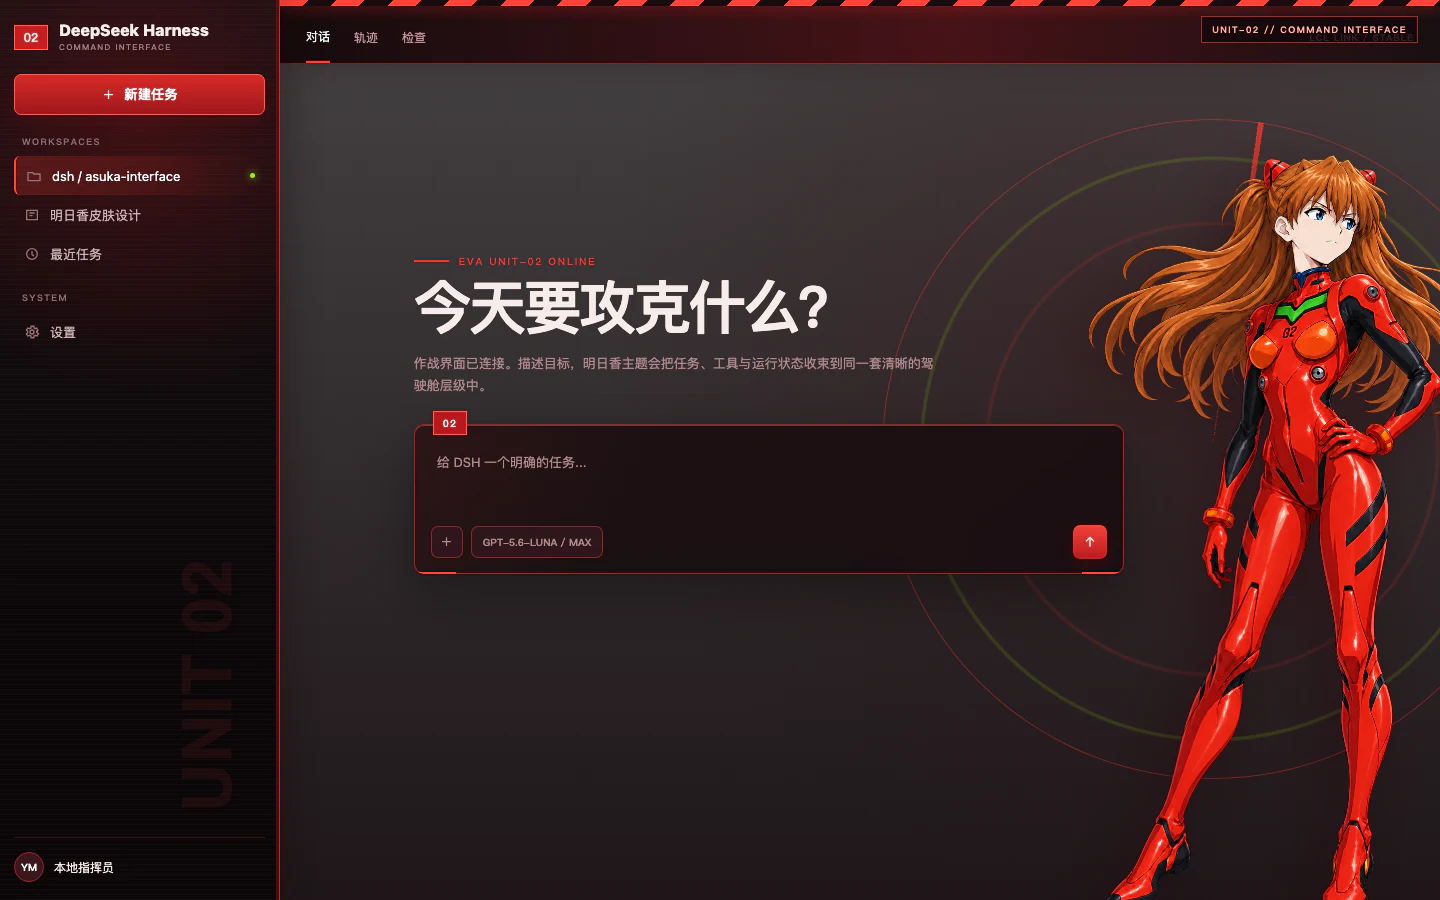
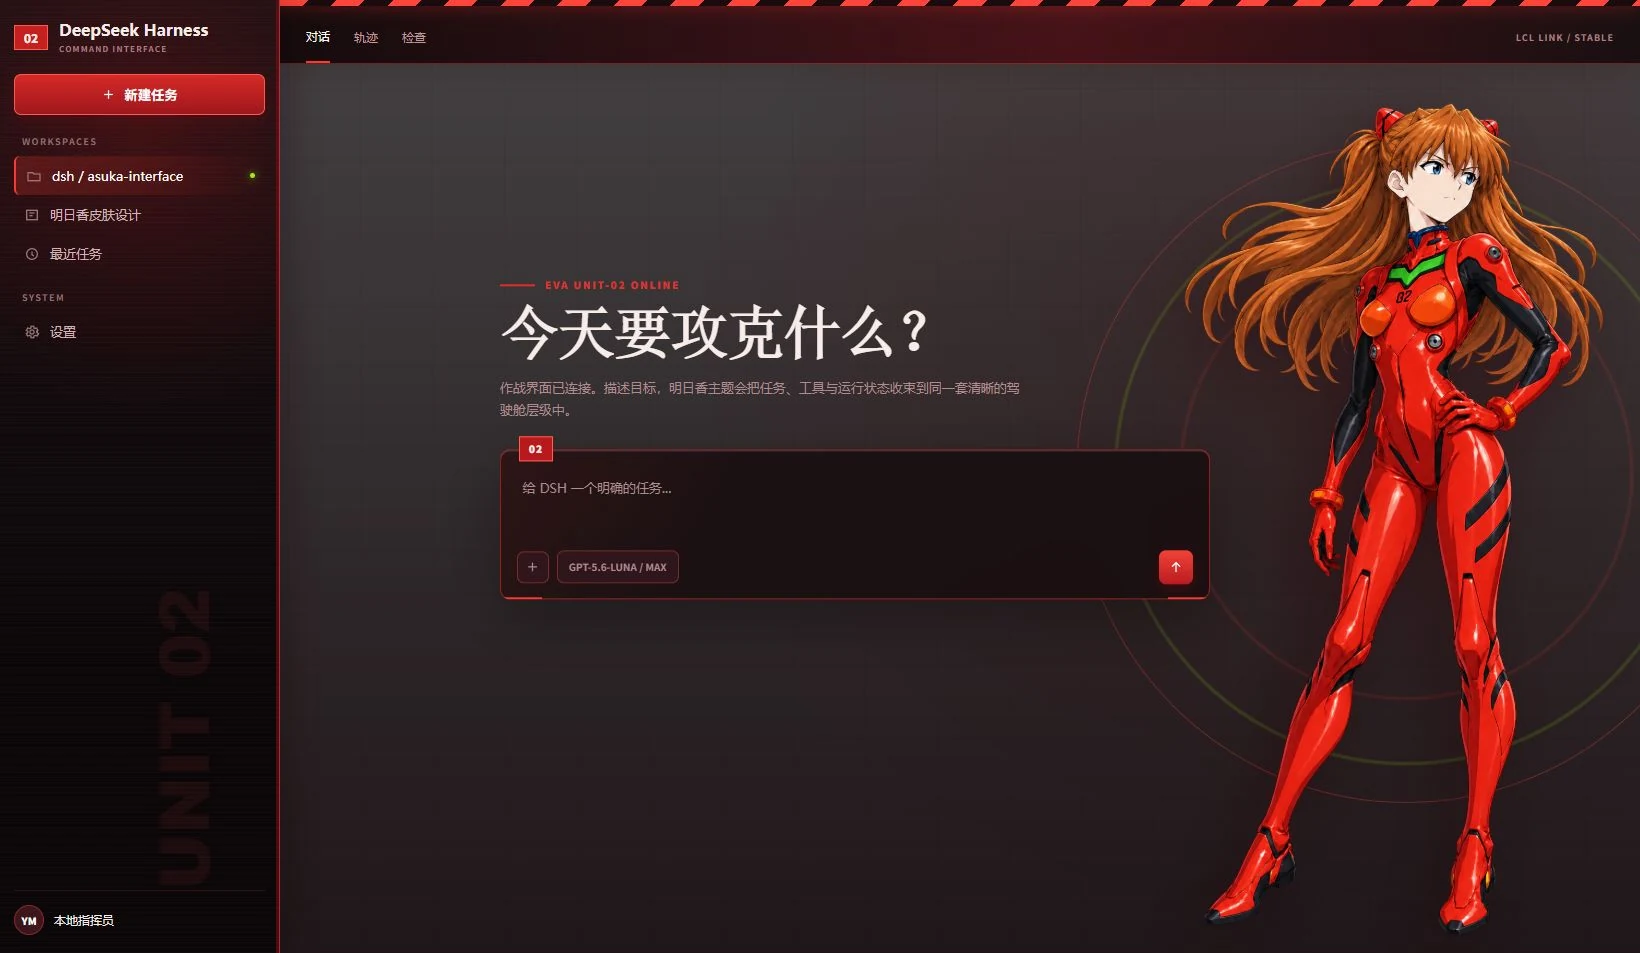
Fix Asuka artwork framing

diff --git a/preview/preview.html b/preview/preview.html
@@ -63,7 +63,6 @@
     .avatar { display: grid; place-items: center; width: 30px; height: 30px; border: 1px solid #8f242a; border-radius: 50%; color: #fff; background: #3b171c; font: 800 10px ui-monospace; }
     .main { position: relative; z-index: 3; min-width: 0; }
     .alert { position: absolute; z-index: 8; top: 0; right: 0; left: 0; height: 6px; background: repeating-linear-gradient(135deg,#ff4439 0 20px,#1a0b0e 20px 40px); box-shadow: 0 2px 14px rgba(255,45,40,.42); }
-    .status { position: absolute; z-index: 8; top: 16px; right: 22px; padding: 6px 10px; border: 1px solid rgba(255,83,72,.5); color: #ffb7b0; background: rgba(18,7,9,.78); font: 700 9px ui-monospace; letter-spacing: .16em; }
     .topbar { position: relative; z-index: 5; display: flex; align-items: center; justify-content: space-between; height: 64px; padding: 12px 26px 0; border-bottom: 1px solid var(--line); background: linear-gradient(90deg,rgba(18,8,10,.94),rgba(71,10,16,.82) 58%,rgba(18,8,10,.86)); box-shadow: 0 8px 24px rgba(32,2,6,.14); }
     .topbar nav { display: flex; gap: 24px; height: 100%; align-items: center; }
     .tab { align-self: stretch; display: flex; align-items: center; color: #bd999b; font-size: 12px; }
@@ -71,7 +70,7 @@
     .meta { color: #a98083; font: 700 9px ui-monospace; letter-spacing: .12em; }
     .stage { position: absolute; inset: 64px 0 0; overflow: hidden; }
     .ring { position: absolute; right: 3vw; top: 46%; width: min(49vw,660px); aspect-ratio: 1; border: 1px solid rgba(255,61,51,.35); border-radius: 50%; background: conic-gradient(from 14deg,transparent 0 8deg,rgba(255,59,48,.7) 8deg 9deg,transparent 9deg 28deg),radial-gradient(circle,transparent 0 48%,rgba(255,59,48,.12) 48.2% 48.7%,transparent 49% 62%,rgba(155,240,11,.14) 62.2% 62.7%,transparent 63%); transform: translate(22%,-50%) rotate(-14deg); }
-    .character { position: absolute; z-index: 2; right: -36px; bottom: -20px; height: 92%; filter: drop-shadow(-18px 18px 30px rgba(35,0,5,.42)); }
+    .character { position: absolute; z-index: 2; right: clamp(18px,2vw,36px); bottom: clamp(12px,1.6vh,20px); width: auto; height: min(88vh,920px); max-width: calc(100% - 24px); object-fit: contain; filter: drop-shadow(-18px 18px 30px rgba(35,0,5,.42)); }
     .hero { position: absolute; z-index: 4; top: 46%; left: 43%; width: min(54vw,730px); transform: translate(-50%,-50%); }
     .eyebrow { display: flex; align-items: center; gap: 10px; color: #df332f; font: 800 10px ui-monospace; letter-spacing: .18em; }
     .eyebrow::before { content: ''; width: 35px; height: 2px; background: #e52a27; }
@@ -108,7 +107,7 @@
       <div class="profile"><span class="avatar">YM</span><span style="font-size:12px">本地指挥员</span></div>
     </aside>
     <main class="main">
-      <div class="alert"></div><div class="status">UNIT-02 // COMMAND INTERFACE</div>
+      <div class="alert"></div>
       <header class="topbar"><nav><span class="tab active">对话</span><span class="tab">轨迹</span><span class="tab">检查</span></nav><span class="meta">LCL LINK / STABLE</span></header>
       <section class="stage"><div class="ring"></div><img class="character" src="../assets/asuka-unit-02-cutout.webp" alt=""></section>
       <section class="hero">

diff --git a/lib/client.js b/lib/client.js
@@ -121,10 +121,12 @@ body[data-dsh-asuka-interface] [data-skin-chrome='asuka-character-stage'] {
 
 body[data-dsh-asuka-interface] [data-asuka-character] {
   position: absolute;
-  right: clamp(-120px, -4vw, -28px);
-  bottom: -2.5vh;
+  right: clamp(18px, 2vw, 36px);
+  bottom: clamp(12px, 1.6vh, 20px);
   width: auto;
-  height: min(94vh, 1040px);
+  height: min(88vh, 920px);
+  max-width: calc(100vw - var(--asuka-sidebar-width) - 24px);
+  object-fit: contain;
   opacity: 0.96;
   filter: drop-shadow(-18px 18px 30px rgba(35, 0, 5, 0.38));
   transform-origin: right bottom;
@@ -168,20 +170,6 @@ body[data-dsh-asuka-interface] [data-skin-chrome='asuka-alert-rail'] {
   background: repeating-linear-gradient(135deg, #ff4439 0 20px, #1a0b0e 20px 40px);
   box-shadow: 0 2px 14px rgba(255, 45, 40, 0.42);
   transition: left 180ms ease;
-}
-
-body[data-dsh-asuka-interface] [data-skin-chrome='asuka-alert-rail']::after {
-  content: 'UNIT-02 // COMMAND INTERFACE';
-  position: absolute;
-  top: 10px;
-  right: 22px;
-  padding: 5px 10px 4px;
-  border: 1px solid rgba(255, 83, 72, 0.5);
-  color: #ffb7b0;
-  background: rgba(18, 7, 9, 0.78);
-  font: 700 10px/1.1 ui-monospace, SFMono-Regular, Menlo, monospace;
-  letter-spacing: 0.16em;
-  backdrop-filter: blur(8px);
 }
 
 body[data-dsh-asuka-interface] [data-skin-chrome='asuka-titlebar-brand'] {
@@ -526,8 +514,9 @@ body[data-dsh-asuka-interface] ::-webkit-scrollbar-thumb {
 
 @media (max-width: 1180px) {
   body[data-dsh-asuka-interface] [data-asuka-character] {
-    right: -170px;
-    height: 86vh;
+    right: clamp(12px, 2vw, 24px);
+    bottom: 12px;
+    height: 82vh;
     opacity: 0.58;
   }
 

diff --git a/shared/theme-css.js b/shared/theme-css.js
@@ -110,10 +110,12 @@ body[data-dsh-asuka-interface] [data-skin-chrome='asuka-character-stage'] {
 
 body[data-dsh-asuka-interface] [data-asuka-character] {
   position: absolute;
-  right: clamp(-120px, -4vw, -28px);
-  bottom: -2.5vh;
+  right: clamp(18px, 2vw, 36px);
+  bottom: clamp(12px, 1.6vh, 20px);
   width: auto;
-  height: min(94vh, 1040px);
+  height: min(88vh, 920px);
+  max-width: calc(100vw - var(--asuka-sidebar-width) - 24px);
+  object-fit: contain;
   opacity: 0.96;
   filter: drop-shadow(-18px 18px 30px rgba(35, 0, 5, 0.38));
   transform-origin: right bottom;
@@ -157,20 +159,6 @@ body[data-dsh-asuka-interface] [data-skin-chrome='asuka-alert-rail'] {
   background: repeating-linear-gradient(135deg, #ff4439 0 20px, #1a0b0e 20px 40px);
   box-shadow: 0 2px 14px rgba(255, 45, 40, 0.42);
   transition: left 180ms ease;
-}
-
-body[data-dsh-asuka-interface] [data-skin-chrome='asuka-alert-rail']::after {
-  content: 'UNIT-02 // COMMAND INTERFACE';
-  position: absolute;
-  top: 10px;
-  right: 22px;
-  padding: 5px 10px 4px;
-  border: 1px solid rgba(255, 83, 72, 0.5);
-  color: #ffb7b0;
-  background: rgba(18, 7, 9, 0.78);
-  font: 700 10px/1.1 ui-monospace, SFMono-Regular, Menlo, monospace;
-  letter-spacing: 0.16em;
-  backdrop-filter: blur(8px);
 }
 
 body[data-dsh-asuka-interface] [data-skin-chrome='asuka-titlebar-brand'] {
@@ -515,8 +503,9 @@ body[data-dsh-asuka-interface] ::-webkit-scrollbar-thumb {
 
 @media (max-width: 1180px) {
   body[data-dsh-asuka-interface] [data-asuka-character] {
-    right: -170px;
-    height: 86vh;
+    right: clamp(12px, 2vw, 24px);
+    bottom: 12px;
+    height: 82vh;
     opacity: 0.58;
   }
 

diff --git a/tests/apply.spec.ts b/tests/apply.spec.ts
@@ -112,4 +112,12 @@ describe('Asuka interface skin', () => {
     expect(ASUKA_CSS).toContain('--dsw-alias-bg-base: #f5efea;')
     expect(ASUKA_CSS).toContain('--dsw-alias-bg-base: #130a0d;')
   })
+
+  it('keeps the hero artwork inside the viewport without the corner status label', () => {
+    expect(ASUKA_CSS).toContain('right: clamp(18px, 2vw, 36px);')
+    expect(ASUKA_CSS).toContain('bottom: clamp(12px, 1.6vh, 20px);')
+    expect(ASUKA_CSS).toContain('height: min(88vh, 920px);')
+    expect(ASUKA_CSS).toContain('prefers-reduced-motion: reduce')
+    expect(ASUKA_CSS).not.toContain('UNIT-02 // COMMAND INTERFACE')
+  })
 })
